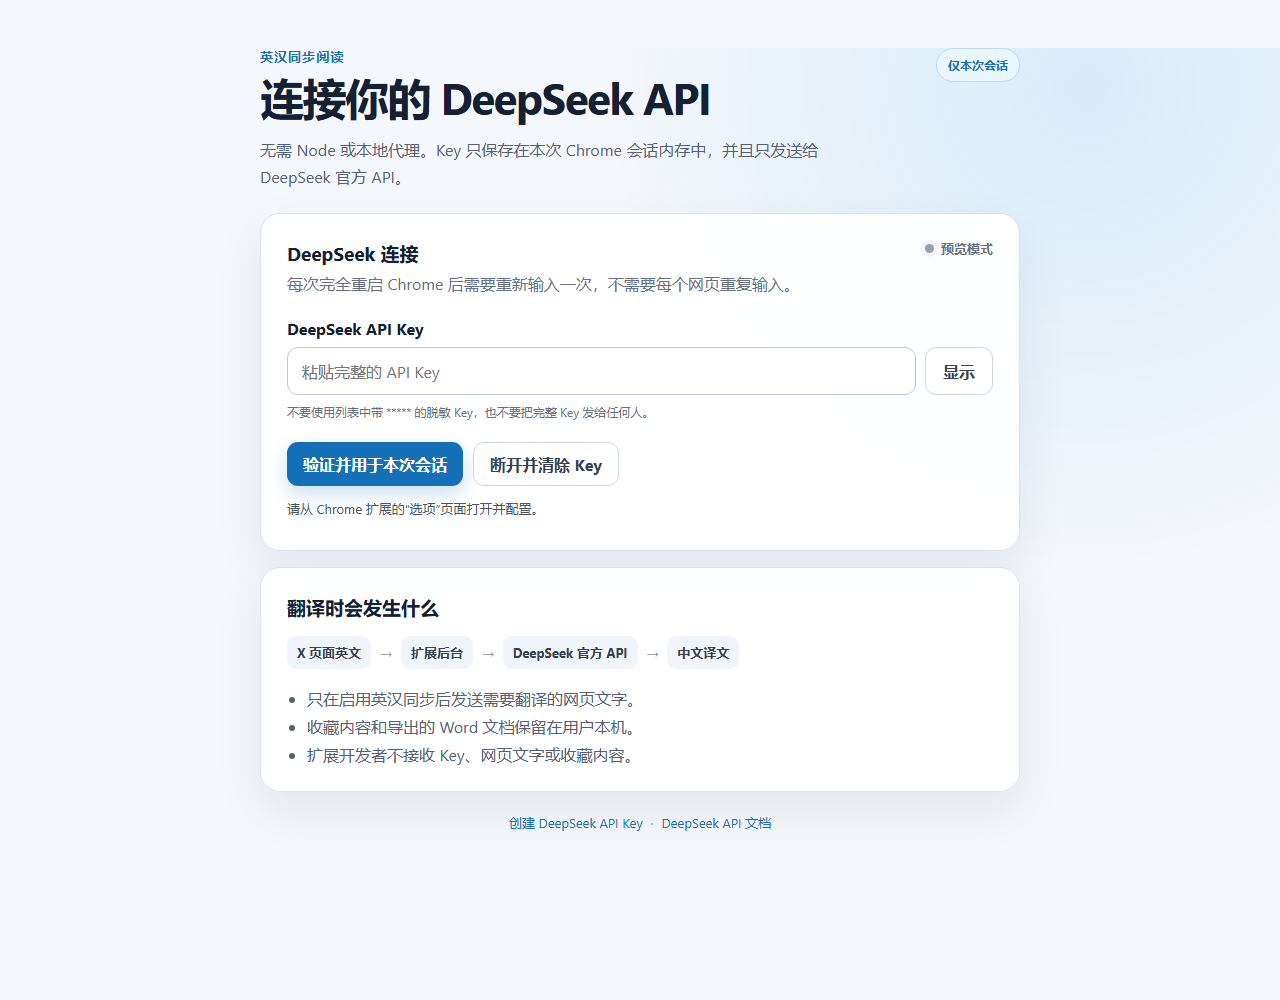
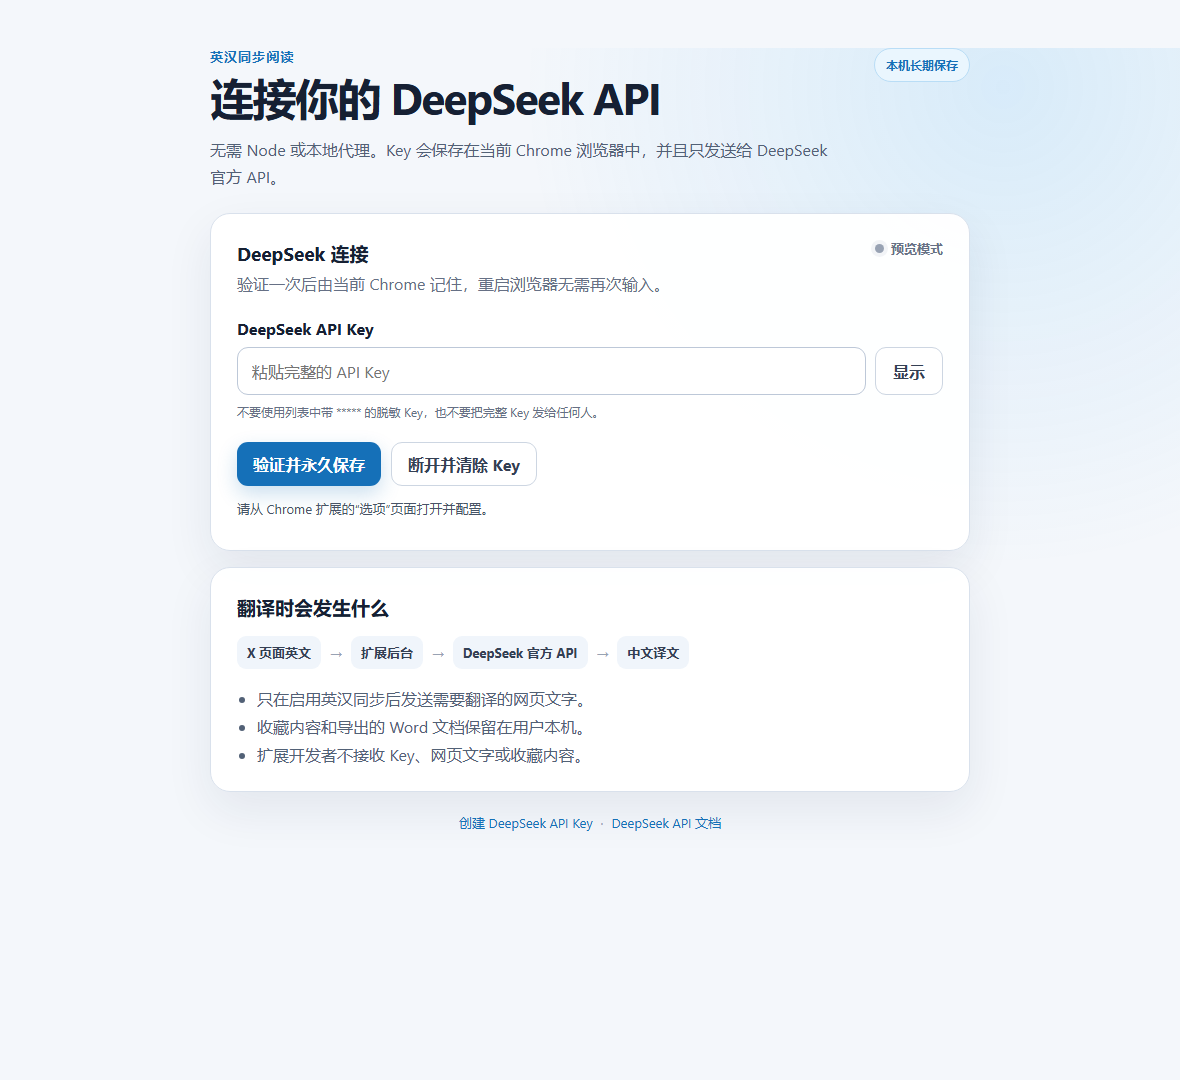
Persist DeepSeek API key in Chrome storage

diff --git a/background.js b/background.js
@@ -2,7 +2,7 @@
 
 const DEEPSEEK_API_BASE = "https://api.deepseek.com";
 const DEEPSEEK_MODEL = "deepseek-v4-flash";
-const API_KEY_SESSION_KEY = "deepseekApiKey";
+const API_KEY_LOCAL_KEY = "deepseekApiKey";
 const HEALTH_TIMEOUT_MS = 10000;
 const TRANSLATE_TIMEOUT_MS = 45000;
 const MAX_SOURCE_LENGTH = 12000;
@@ -25,7 +25,7 @@ chrome.runtime.onMessage.addListener((message, sender, sendResponse) => {
   }
 
   if (message.type === "DEEPSEEK_KEY_STATUS") {
-    getSessionApiKey()
+    getStoredApiKey()
       .then((apiKey) => sendResponse({ ok: true, configured: Boolean(apiKey) }))
       .catch((error) => sendResponse({ ok: false, configured: false, error: safeErrorMessage(error) }));
     return true;
@@ -44,11 +44,11 @@ chrome.runtime.onMessage.addListener((message, sender, sendResponse) => {
 
     validateDeepSeekKey(apiKey)
       .then(async (model) => {
-        await chrome.storage.session.set({ [API_KEY_SESSION_KEY]: apiKey });
+        await chrome.storage.local.set({ [API_KEY_LOCAL_KEY]: apiKey });
         sendResponse({ ok: true, configured: true, model });
       })
       .catch(async (error) => {
-        const existingKey = await getSessionApiKey().catch(() => "");
+        const existingKey = await getStoredApiKey().catch(() => "");
         sendResponse({
           ok: false,
           configured: Boolean(existingKey),
@@ -59,15 +59,15 @@ chrome.runtime.onMessage.addListener((message, sender, sendResponse) => {
   }
 
   if (message.type === "DEEPSEEK_DELETE_KEY") {
-    chrome.storage.session
-      .remove(API_KEY_SESSION_KEY)
+    chrome.storage.local
+      .remove(API_KEY_LOCAL_KEY)
       .then(() => sendResponse({ ok: true, configured: false }))
       .catch((error) => sendResponse({ ok: false, error: safeErrorMessage(error) }));
     return true;
   }
 
   if (message.type === "DEEPSEEK_HEALTH") {
-    getSessionApiKey()
+    getStoredApiKey()
       .then(async (apiKey) => {
         if (!apiKey) {
           sendResponse({
@@ -93,7 +93,7 @@ chrome.runtime.onMessage.addListener((message, sender, sendResponse) => {
       return;
     }
 
-    getSessionApiKey()
+    getStoredApiKey()
       .then(async (apiKey) => {
         if (!apiKey) throw new Error("DEEPSEEK_KEY_MISSING: 尚未配置 DeepSeek API Key。");
         const result = await translateWithDeepSeek(source, apiKey);
@@ -104,9 +104,9 @@ chrome.runtime.onMessage.addListener((message, sender, sendResponse) => {
   }
 });
 
-async function getSessionApiKey() {
-  const stored = await chrome.storage.session.get(API_KEY_SESSION_KEY);
-  return sanitizeApiKey(stored?.[API_KEY_SESSION_KEY]);
+async function getStoredApiKey() {
+  const stored = await chrome.storage.local.get(API_KEY_LOCAL_KEY);
+  return sanitizeApiKey(stored?.[API_KEY_LOCAL_KEY]);
 }
 
 async function validateDeepSeekKey(apiKey) {

diff --git a/codex-skill/assets/extension-template/background.js b/codex-skill/assets/extension-template/background.js
@@ -2,7 +2,7 @@
 
 const DEEPSEEK_API_BASE = "https://api.deepseek.com";
 const DEEPSEEK_MODEL = "deepseek-v4-flash";
-const API_KEY_SESSION_KEY = "deepseekApiKey";
+const API_KEY_LOCAL_KEY = "deepseekApiKey";
 const HEALTH_TIMEOUT_MS = 10000;
 const TRANSLATE_TIMEOUT_MS = 45000;
 const MAX_SOURCE_LENGTH = 12000;
@@ -25,7 +25,7 @@ chrome.runtime.onMessage.addListener((message, sender, sendResponse) => {
   }
 
   if (message.type === "DEEPSEEK_KEY_STATUS") {
-    getSessionApiKey()
+    getStoredApiKey()
       .then((apiKey) => sendResponse({ ok: true, configured: Boolean(apiKey) }))
       .catch((error) => sendResponse({ ok: false, configured: false, error: safeErrorMessage(error) }));
     return true;
@@ -44,11 +44,11 @@ chrome.runtime.onMessage.addListener((message, sender, sendResponse) => {
 
     validateDeepSeekKey(apiKey)
       .then(async (model) => {
-        await chrome.storage.session.set({ [API_KEY_SESSION_KEY]: apiKey });
+        await chrome.storage.local.set({ [API_KEY_LOCAL_KEY]: apiKey });
         sendResponse({ ok: true, configured: true, model });
       })
       .catch(async (error) => {
-        const existingKey = await getSessionApiKey().catch(() => "");
+        const existingKey = await getStoredApiKey().catch(() => "");
         sendResponse({
           ok: false,
           configured: Boolean(existingKey),
@@ -59,15 +59,15 @@ chrome.runtime.onMessage.addListener((message, sender, sendResponse) => {
   }
 
   if (message.type === "DEEPSEEK_DELETE_KEY") {
-    chrome.storage.session
-      .remove(API_KEY_SESSION_KEY)
+    chrome.storage.local
+      .remove(API_KEY_LOCAL_KEY)
       .then(() => sendResponse({ ok: true, configured: false }))
       .catch((error) => sendResponse({ ok: false, error: safeErrorMessage(error) }));
     return true;
   }
 
   if (message.type === "DEEPSEEK_HEALTH") {
-    getSessionApiKey()
+    getStoredApiKey()
       .then(async (apiKey) => {
         if (!apiKey) {
           sendResponse({
@@ -93,7 +93,7 @@ chrome.runtime.onMessage.addListener((message, sender, sendResponse) => {
       return;
     }
 
-    getSessionApiKey()
+    getStoredApiKey()
       .then(async (apiKey) => {
         if (!apiKey) throw new Error("DEEPSEEK_KEY_MISSING: 尚未配置 DeepSeek API Key。");
         const result = await translateWithDeepSeek(source, apiKey);
@@ -104,9 +104,9 @@ chrome.runtime.onMessage.addListener((message, sender, sendResponse) => {
   }
 });
 
-async function getSessionApiKey() {
-  const stored = await chrome.storage.session.get(API_KEY_SESSION_KEY);
-  return sanitizeApiKey(stored?.[API_KEY_SESSION_KEY]);
+async function getStoredApiKey() {
+  const stored = await chrome.storage.local.get(API_KEY_LOCAL_KEY);
+  return sanitizeApiKey(stored?.[API_KEY_LOCAL_KEY]);
 }
 
 async function validateDeepSeekKey(apiKey) {

diff --git a/codex-skill/assets/extension-template/options.html b/codex-skill/assets/extension-template/options.html
@@ -13,16 +13,16 @@
       <div>
         <p class="eyebrow">英汉同步阅读</p>
         <h1>连接你的 DeepSeek API</h1>
-        <p class="lede">无需 Node 或本地代理。Key 只保存在本次 Chrome 会话内存中，并且只发送给 DeepSeek 官方 API。</p>
+        <p class="lede">无需 Node 或本地代理。Key 会保存在当前 Chrome 浏览器中，并且只发送给 DeepSeek 官方 API。</p>
       </div>
-      <span class="session-badge">仅本次会话</span>
+      <span class="session-badge">本机长期保存</span>
     </header>
 
     <section class="card" aria-labelledby="connection-title">
       <div class="section-heading">
         <div>
           <h2 id="connection-title">DeepSeek 连接</h2>
-          <p>每次完全重启 Chrome 后需要重新输入一次，不需要每个网页重复输入。</p>
+          <p>验证一次后由当前 Chrome 记住，重启浏览器无需再次输入。</p>
         </div>
         <div class="connection-state" id="connection-state" data-state="idle">
           <span class="state-dot" aria-hidden="true"></span>
@@ -38,7 +38,7 @@
       <p class="hint">不要使用列表中带 ***** 的脱敏 Key，也不要把完整 Key 发给任何人。</p>
 
       <div class="actions">
-        <button id="save-key" class="primary" type="button">验证并用于本次会话</button>
+        <button id="save-key" class="primary" type="button">验证并永久保存</button>
         <button id="delete-key" class="secondary" type="button">断开并清除 Key</button>
       </div>
       <div id="message" class="message" role="status" aria-live="polite"></div>
@@ -64,4 +64,3 @@
   </main>
 </body>
 </html>
-

diff --git a/options.html b/options.html
@@ -13,16 +13,16 @@
       <div>
         <p class="eyebrow">英汉同步阅读</p>
         <h1>连接你的 DeepSeek API</h1>
-        <p class="lede">无需 Node 或本地代理。Key 只保存在本次 Chrome 会话内存中，并且只发送给 DeepSeek 官方 API。</p>
+        <p class="lede">无需 Node 或本地代理。Key 会保存在当前 Chrome 浏览器中，并且只发送给 DeepSeek 官方 API。</p>
       </div>
-      <span class="session-badge">仅本次会话</span>
+      <span class="session-badge">本机长期保存</span>
     </header>
 
     <section class="card" aria-labelledby="connection-title">
       <div class="section-heading">
         <div>
           <h2 id="connection-title">DeepSeek 连接</h2>
-          <p>每次完全重启 Chrome 后需要重新输入一次，不需要每个网页重复输入。</p>
+          <p>验证一次后由当前 Chrome 记住，重启浏览器无需再次输入。</p>
         </div>
         <div class="connection-state" id="connection-state" data-state="idle">
           <span class="state-dot" aria-hidden="true"></span>
@@ -38,7 +38,7 @@
       <p class="hint">不要使用列表中带 ***** 的脱敏 Key，也不要把完整 Key 发给任何人。</p>
 
       <div class="actions">
-        <button id="save-key" class="primary" type="button">验证并用于本次会话</button>
+        <button id="save-key" class="primary" type="button">验证并永久保存</button>
         <button id="delete-key" class="secondary" type="button">断开并清除 Key</button>
       </div>
       <div id="message" class="message" role="status" aria-live="polite"></div>
@@ -64,4 +64,3 @@
   </main>
 </body>
 </html>
-

diff --git a/codex-skill/assets/extension-template/options.js b/codex-skill/assets/extension-template/options.js
@@ -64,14 +64,14 @@ saveButton.addEventListener("click", async () => {
 
 deleteButton.addEventListener("click", async () => {
   if (!hasExtensionRuntime) return;
-  if (!window.confirm("确定断开 DeepSeek 并清除本次会话中的 Key 吗？")) return;
+  if (!window.confirm("确定断开 DeepSeek 并清除浏览器中保存的 Key 吗？")) return;
   setBusy(true);
   try {
     const response = await chrome.runtime.sendMessage({ type: "DEEPSEEK_DELETE_KEY" });
     if (!response?.ok) throw new Error(response?.error || "清除失败。");
     input.value = "";
     setConnection(false);
-    setMessage("已断开并从会话内存中清除 Key。", "success");
+    setMessage("已断开并从当前 Chrome 中清除 Key。", "success");
   } catch (error) {
     setMessage(error?.message || String(error), "error");
   } finally {
@@ -84,9 +84,9 @@ async function refreshStatus() {
     const response = await chrome.runtime.sendMessage({ type: "DEEPSEEK_KEY_STATUS" });
     setConnection(Boolean(response?.configured));
     if (response?.configured) {
-      setMessage("Key 已保存在本次 Chrome 会话内存中。", "success");
+      setMessage("Key 已由当前 Chrome 长期保存，重启浏览器后仍可使用。", "success");
     } else {
-      setMessage("尚未连接。粘贴 Key 后点击“验证并用于本次会话”。", "idle");
+      setMessage("尚未连接。粘贴 Key 后点击“验证并永久保存”。", "idle");
     }
   } catch (error) {
     setConnection(false, true);

diff --git a/options.js b/options.js
@@ -64,14 +64,14 @@ saveButton.addEventListener("click", async () => {
 
 deleteButton.addEventListener("click", async () => {
   if (!hasExtensionRuntime) return;
-  if (!window.confirm("确定断开 DeepSeek 并清除本次会话中的 Key 吗？")) return;
+  if (!window.confirm("确定断开 DeepSeek 并清除浏览器中保存的 Key 吗？")) return;
   setBusy(true);
   try {
     const response = await chrome.runtime.sendMessage({ type: "DEEPSEEK_DELETE_KEY" });
     if (!response?.ok) throw new Error(response?.error || "清除失败。");
     input.value = "";
     setConnection(false);
-    setMessage("已断开并从会话内存中清除 Key。", "success");
+    setMessage("已断开并从当前 Chrome 中清除 Key。", "success");
   } catch (error) {
     setMessage(error?.message || String(error), "error");
   } finally {
@@ -84,9 +84,9 @@ async function refreshStatus() {
     const response = await chrome.runtime.sendMessage({ type: "DEEPSEEK_KEY_STATUS" });
     setConnection(Boolean(response?.configured));
     if (response?.configured) {
-      setMessage("Key 已保存在本次 Chrome 会话内存中。", "success");
+      setMessage("Key 已由当前 Chrome 长期保存，重启浏览器后仍可使用。", "success");
     } else {
-      setMessage("尚未连接。粘贴 Key 后点击“验证并用于本次会话”。", "idle");
+      setMessage("尚未连接。粘贴 Key 后点击“验证并永久保存”。", "idle");
     }
   } catch (error) {
     setConnection(false, true);

diff --git a/codex-skill/SKILL.md b/codex-skill/SKILL.md
@@ -29,12 +29,12 @@ After generation, adapt the copied files in the output directory when the user r
 - Insert translations with `textContent`, never API-supplied `innerHTML`.
 - Let the user select a sentence, save an English-Chinese record in extension-local storage, and export all saved records as a real `.docx` file.
 - Keep permissions limited to the requested sites. Do not use `<all_urls>` by default.
-- Never embed a developer-owned cloud API secret. For a user-supplied DeepSeek Key, collect it on an extension options page and keep it only in `chrome.storage.session`, which is memory-only and not exposed to content scripts by default. Send it only from the service worker to the official DeepSeek HTTPS API. Make clear that users re-enter it after a full browser restart or extension reload.
+- Never embed a developer-owned cloud API secret. For a user-supplied DeepSeek Key, collect it on an extension options page and persist it in `chrome.storage.local` so one successful entry survives browser restarts and extension updates. Send it only from the service worker to the official DeepSeek HTTPS API; never return it in messages, logs, exports, source files, or sync storage. Provide an explicit “断开并清除 Key” action and disclose that uninstalling the extension or clearing extension data removes it.
 - Treat page text as untrusted input and do not execute code received from the page or translation service.
 
 ## Translation engine
 
-The bundled public template uses the user's own DeepSeek API Key from a dedicated options page. Validate the Key with the official `/models` endpoint before storing it in session memory. Default to `deepseek-v4-flash`, disable thinking mode for translation latency, send only the page text that needs translation, and treat that text as untrusted data in the prompt. Never return the Key to a content script, log it, sync it, or write it to disk.
+The bundled public template uses the user's own DeepSeek API Key from a dedicated options page. Validate the Key with the official `/models` endpoint before storing it in the current Chrome profile's extension-local storage. Default to `deepseek-v4-flash`, disable thinking mode for translation latency, send only the page text that needs translation, and treat that text as untrusted data in the prompt. Never return the Key to a content script, log it, sync it to other devices, or include it in a release artifact.
 
 Use `https://api.deepseek.com/*` as the narrow host permission. Clicking the extension action and the in-page settings button should open the options page. Present a visible disclosure that translated webpage text is sent to DeepSeek and that the user's account incurs API usage.
 
@@ -78,7 +78,7 @@ After creating or changing a project:
 
 Distinguish expected security behavior from actual defects before changing the extension:
 
-- **DeepSeek shows disconnected after a full Chrome restart or extension reload:** this is expected while the Key is stored in `chrome.storage.session`. Ask the user to enter it again; do not silently move it to persistent storage.
+- **DeepSeek shows disconnected after a full Chrome restart or extension update:** treat this as a persistence regression. Confirm the validated Key was written to `chrome.storage.local`, that status reads the same key after the service worker restarts, and that no update or initialization path clears it.
 - **Some X posts, quoted posts, or article cards are not translated:** treat this as a site-adapter selector regression. Reproduce it on the current X DOM, prefer stable semantic selectors, and avoid broad selectors that duplicate usernames, controls, or metadata.
 - **Translations become increasingly slow on a long feed:** inspect queue depth, visibility filtering, caching, and request timeouts. Keep Chrome Translator work serialized, but do not let one failed or timed-out item block later items indefinitely.
 - **A brief DeepSeek network failure permanently switches the session to Chrome fallback:** treat this as a provider-state defect. A transient failure may use the local model for that request, but offer a bounded DeepSeek retry or restore the preferred provider when the user re-enables translation.

diff --git a/README.md b/README.md
@@ -2,7 +2,7 @@
 
 一款面向 X（Twitter）的 Chrome 英汉双语阅读扩展。它会在英文内容下方显示中文翻译，并支持划词收藏与 Word（DOCX）导出。
 
-> 当前版本：v0.6.0（实验版）  
+> 当前版本：v0.6.1（实验版）  
 > 当前支持：`x.com`、`twitter.com`
 
 ![DeepSeek 设置页](docs/settings-preview.png)
@@ -34,7 +34,7 @@
 ## 安装
 
 1. 打开本仓库的 [Releases](../../releases) 页面。
-2. 下载 `x-bilingual-reader-webstore-v0.6.0.zip`。
+2. 下载 `x-bilingual-reader-webstore-v0.6.1.zip`。
 3. 将 ZIP 完整解压到一个固定文件夹，不要直接选择 ZIP。
 4. 在 Chrome 地址栏打开 `chrome://extensions/`。
 5. 打开右上角“开发者模式”。
@@ -45,21 +45,21 @@
 
 1. 点击浏览器工具栏中的“英汉同步阅读”扩展图标。
 2. 粘贴完整的 DeepSeek API Key（通常以 `sk-` 开头）。
-3. 点击“验证并保存”。
+3. 点击“验证并永久保存”。
 4. 打开或刷新 X 页面。
 
-API Key 使用 `chrome.storage.session` 保存，只存在于当前浏览器会话中。完全退出 Chrome、重新加载扩展或更新扩展后，需要再次输入。这是为了避免把长期密钥写入磁盘。
+API Key 使用 `chrome.storage.local` 保存在当前 Chrome 的扩展本地存储中。验证一次后，重启浏览器或更新扩展仍可继续使用；只有主动清除、清除扩展数据或卸载扩展后才需要重新输入。Key 不会同步到其他设备。
 
 ## Codex Skill（开发者可选）
 
 仓库中的 [`codex-skill`](codex-skill) 用于让 Codex 创建、修改和检查此类英汉同步阅读扩展，并包含常见故障排查规则。普通浏览器用户不需要安装它。
 
-1. 从 Releases 下载 `bilingual-web-extension-skill-v0.6.0.zip`。
+1. 从 Releases 下载 `bilingual-web-extension-skill-v0.6.1.zip`。
 2. 解压后确认目录内直接包含 `SKILL.md`、`scripts` 和 `assets`。
 3. 将整个 `bilingual-web-extension` 文件夹放入 Codex 的 Skills 目录。
 4. 重新启动 Codex 后，通过 `$bilingual-web-extension` 使用。
 
-这个 Skill 不能通过 `chrome://extensions/` 加载；浏览器插件应下载 `x-bilingual-reader-webstore-v0.6.0.zip`。
+这个 Skill 不能通过 `chrome://extensions/` 加载；浏览器插件应下载 `x-bilingual-reader-webstore-v0.6.1.zip`。
 
 ## 隐私与费用
 

diff --git a/PRIVACY.md b/PRIVACY.md
@@ -8,7 +8,7 @@
 
 ## 处理的数据
 
-- DeepSeek API Key：由用户自行提供，仅保存在当前 Chrome 会话的内存中；浏览器重启、扩展重载、更新或停用后自动清除。
+- DeepSeek API Key：由用户自行提供，保存在当前 Chrome 的扩展本地存储中；浏览器重启或扩展更新后继续保留，直到用户主动清除、清除扩展数据或卸载扩展。
 - 网页文字：仅在用户启用英汉同步后，将需要翻译的文字发送到 DeepSeek 官方 API。
 - 本地收藏：英文、中文、来源网址、页面标题和收藏时间保存在 `chrome.storage.local`，用于本地查看和导出 Word。
 - 设置状态：是否启用英汉同步保存在扩展本地存储中。
@@ -20,13 +20,12 @@
 ## 数据安全
 
 - 与 DeepSeek 的通信使用 HTTPS。
-- API Key 不写入扩展代码、磁盘文件、同步存储或开发者服务器。
-- API Key 默认不向网页内容脚本开放。
+- API Key 不写入扩展代码、同步存储或开发者服务器，也不会同步到其他设备。
+- API Key 仅由本扩展后台读取并用于请求 DeepSeek；网页本身不能读取扩展存储。
 - API 返回内容只作为文字插入页面，不作为代码执行。
 
 ## 用户控制
 
-用户可以在扩展设置页随时断开连接并清除当前会话 Key，也可以清空本地收藏。卸载扩展会删除扩展本地数据；卸载前请先导出需要保留的 Word 文档。
+用户可以在扩展设置页随时断开连接并清除浏览器中保存的 Key，也可以清空本地收藏。卸载扩展或清除扩展数据会删除 Key 和本地收藏；卸载前请先导出需要保留的 Word 文档。
 
 DeepSeek 对其收到的数据适用其自己的服务条款和隐私政策。Chrome 网上应用店上架时，应将本说明发布到一个公开 HTTPS 网页并在商店隐私页面填写一致的数据披露。
-

diff --git a/codex-skill/assets/extension-template/PRIVACY.md b/codex-skill/assets/extension-template/PRIVACY.md
@@ -8,7 +8,7 @@
 
 ## 处理的数据
 
-- DeepSeek API Key：由用户自行提供，仅保存在当前 Chrome 会话的内存中；浏览器重启、扩展重载、更新或停用后自动清除。
+- DeepSeek API Key：由用户自行提供，保存在当前 Chrome 的扩展本地存储中；浏览器重启或扩展更新后继续保留，直到用户主动清除、清除扩展数据或卸载扩展。
 - 网页文字：仅在用户启用英汉同步后，将需要翻译的文字发送到 DeepSeek 官方 API。
 - 本地收藏：英文、中文、来源网址、页面标题和收藏时间保存在 `chrome.storage.local`，用于本地查看和导出 Word。
 - 设置状态：是否启用英汉同步保存在扩展本地存储中。
@@ -20,13 +20,12 @@
 ## 数据安全
 
 - 与 DeepSeek 的通信使用 HTTPS。
-- API Key 不写入扩展代码、磁盘文件、同步存储或开发者服务器。
-- API Key 默认不向网页内容脚本开放。
+- API Key 不写入扩展代码、同步存储或开发者服务器，也不会同步到其他设备。
+- API Key 仅由本扩展后台读取并用于请求 DeepSeek；网页本身不能读取扩展存储。
 - API 返回内容只作为文字插入页面，不作为代码执行。
 
 ## 用户控制
 
-用户可以在扩展设置页随时断开连接并清除当前会话 Key，也可以清空本地收藏。卸载扩展会删除扩展本地数据；卸载前请先导出需要保留的 Word 文档。
+用户可以在扩展设置页随时断开连接并清除浏览器中保存的 Key，也可以清空本地收藏。卸载扩展或清除扩展数据会删除 Key 和本地收藏；卸载前请先导出需要保留的 Word 文档。
 
 DeepSeek 对其收到的数据适用其自己的服务条款和隐私政策。Chrome 网上应用店上架时，应将本说明发布到一个公开 HTTPS 网页并在商店隐私页面填写一致的数据披露。
-
